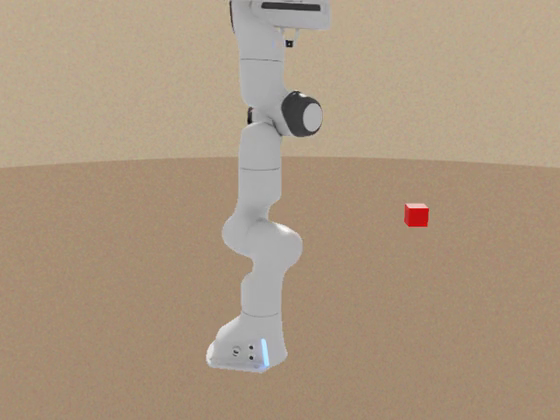
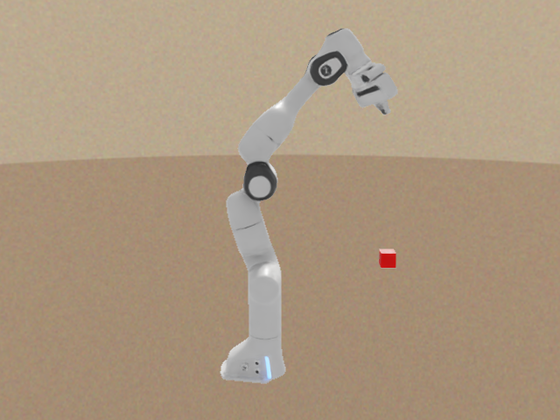
fix(isaac_gs): reframe "front" hero camera so the whole Franka fits
The shipped "front" preset ([0.05,-1.25,0.75] aimed at z=0.40, fov 58)
put the eye too close and too low: the Franka in its default upright pose
pushed the wrist + gripper off the top-right edge of the frame. Both the
static isaac_gs composite still and the --wave clip in the docs showed a
cut-off arm.

Validated new poses against actual RTX renders (plain-RGB framing probe
across 5 candidates, not geometry math): pull the eye back to y=-1.95 / up
to z=1.05, aim at z=0.55, narrow fov to 48 deg. Keeps the full arm
base->gripper in frame with margin, and stays framed across the joint-0
wave sweep (foreground stable ~20-22k px over all 24 frames). Kept the
build_default_scene default + camera_fov in sync with the preset.

Regenerated the three affected docs assets from the corrected camera:
isaac_gs_composite.png, isaac_gs_wave.mp4, isaac_gs_wave_poster.png.
mkdocs build --strict passes.

diff --git a/examples/isaac_gs/scene.py b/examples/isaac_gs/scene.py
@@ -27,15 +27,23 @@ class SceneBuild:
 
 # Hero camera presets (pos, target, fov_deg) framing the Franka in the 3DGS
 # room. Adapted from the MuJoCo-GS demo's authored cameras (the tabletop scene
-# + its skybox alignment were tuned together with those), then pulled back
-# ~1.3x and aimed higher (target z~0.3-0.4 rather than the workspace floor) so
-# the WHOLE arm fits with margin -- the Franka's default pose stands tall, and
-# a low aim clipped the top. Eyes stay INSIDE the ~2 m captured shell (z < the
-# ~1.6 m ceiling) so the splat still fills the frame; aiming higher captures
-# the arm without grazing the unobserved ceiling.
+# + its skybox alignment were tuned together with those), then pulled back and
+# aimed higher (target z~0.55 rather than the workspace floor) so the WHOLE arm
+# fits with margin.
+#
+# Framing was validated against actual RTX renders (a plain-RGB framing probe,
+# not just geometry math): the earlier "front" pose ([0.05,-1.25,0.75] aimed at
+# z=0.40, fov 58) put the eye too close and too low, so the Franka's default
+# upright pose pushed the wrist + gripper off the TOP-RIGHT of the frame. The
+# pose below pulls the eye back to y=-1.95 / up to z=1.05 and aims at z=0.55
+# with a narrower 48 deg fov, which keeps the full arm base->gripper in frame
+# with comfortable margin (so it also stays framed across the --wave joint-0
+# sweep). Eyes stay INSIDE the ~2 m captured shell (z < the ~1.6 m ceiling) so
+# the splat still fills the frame; aiming higher captures the arm without
+# grazing the unobserved ceiling.
 CAMERA_PRESETS: "dict[str, tuple[list[float], list[float], float]]" = {
     "oblique": ([0.96, -0.93, 0.88], [0.05, 0.05, 0.40], 55.0),
-    "front": ([0.05, -1.25, 0.75], [0.05, 0.05, 0.40], 58.0),
+    "front": ([0.05, -1.95, 1.05], [0.05, 0.05, 0.55], 48.0),
     # A high, slightly-offset eye (a perfectly vertical look-at is degenerate
     # for a +Z-up roll axis); kept under the ~1.6 m shell ceiling.
     "topdown": ([0.05, -0.61, 1.56], [0.05, 0.05, 0.30], 62.0),
@@ -203,7 +211,7 @@ def build_default_scene(
     camera_target: "list[float] | None" = None,
     camera_width: int = 640,
     camera_height: int = 480,
-    camera_fov: float = 58.0,
+    camera_fov: float = 48.0,
 ) -> SceneBuild:
     """Build the demo scene on a fresh ``IsaacSimulation``.
 
@@ -272,8 +280,8 @@ def build_default_scene(
     # Default camera == the "front" CAMERA_PRESETS pose. The app skips
     # re-adding "front" since this creates it, so this default must stay in
     # sync with CAMERA_PRESETS["front"]; render_demo renders it too.
-    pos = camera_position or [0.05, -1.25, 0.75]
-    tgt = camera_target or [0.05, 0.05, 0.40]
+    pos = camera_position or [0.05, -1.95, 1.05]
+    tgt = camera_target or [0.05, 0.05, 0.55]
     ca = sim.add_camera(
         name=camera_name,
         position=pos,